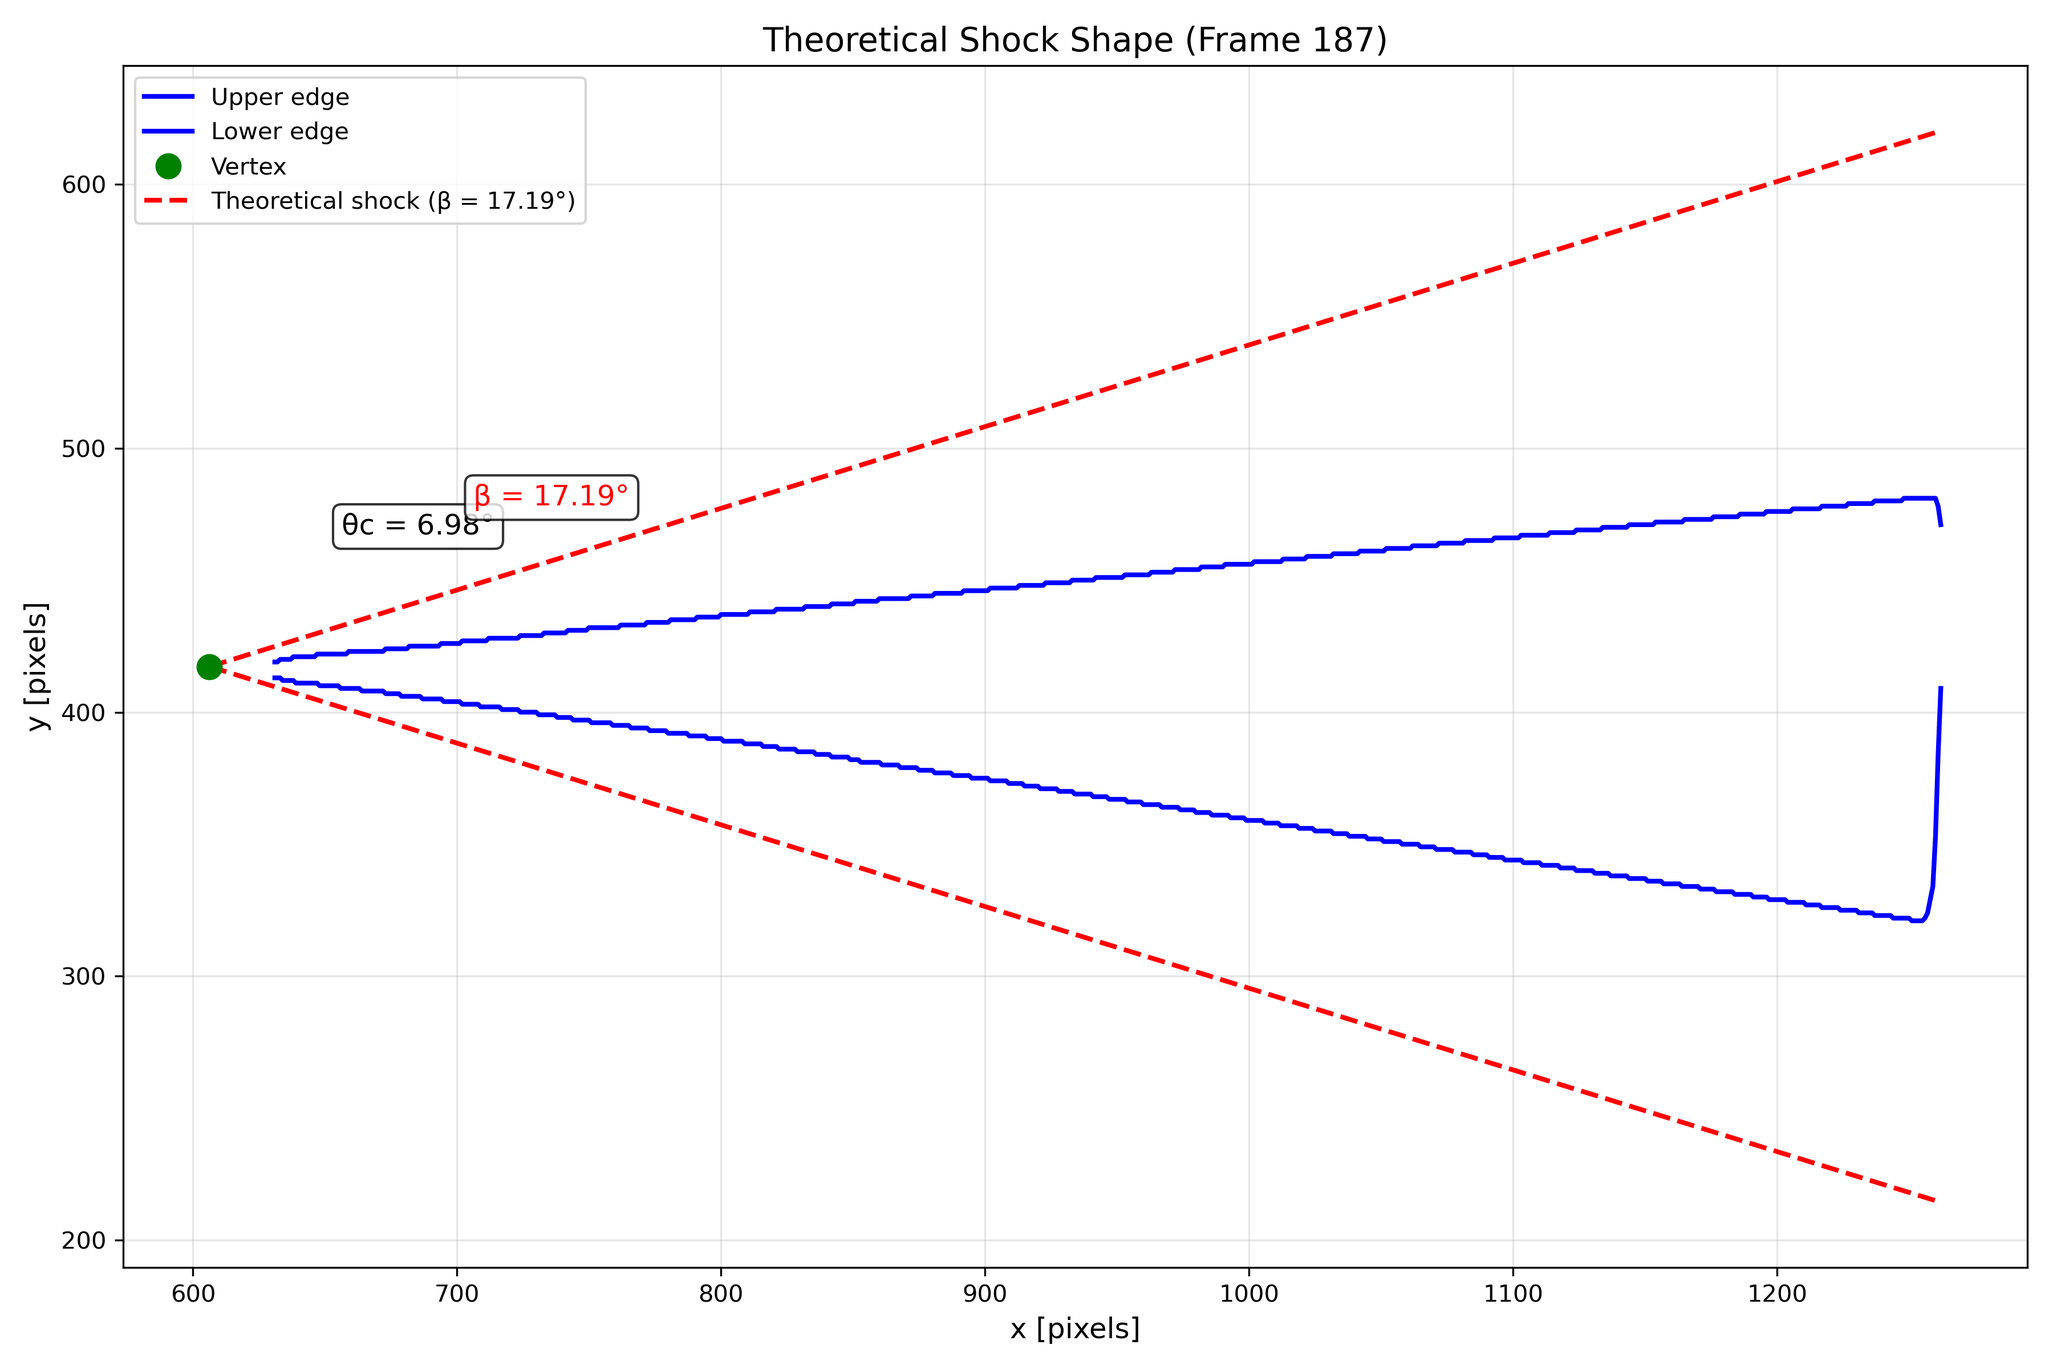
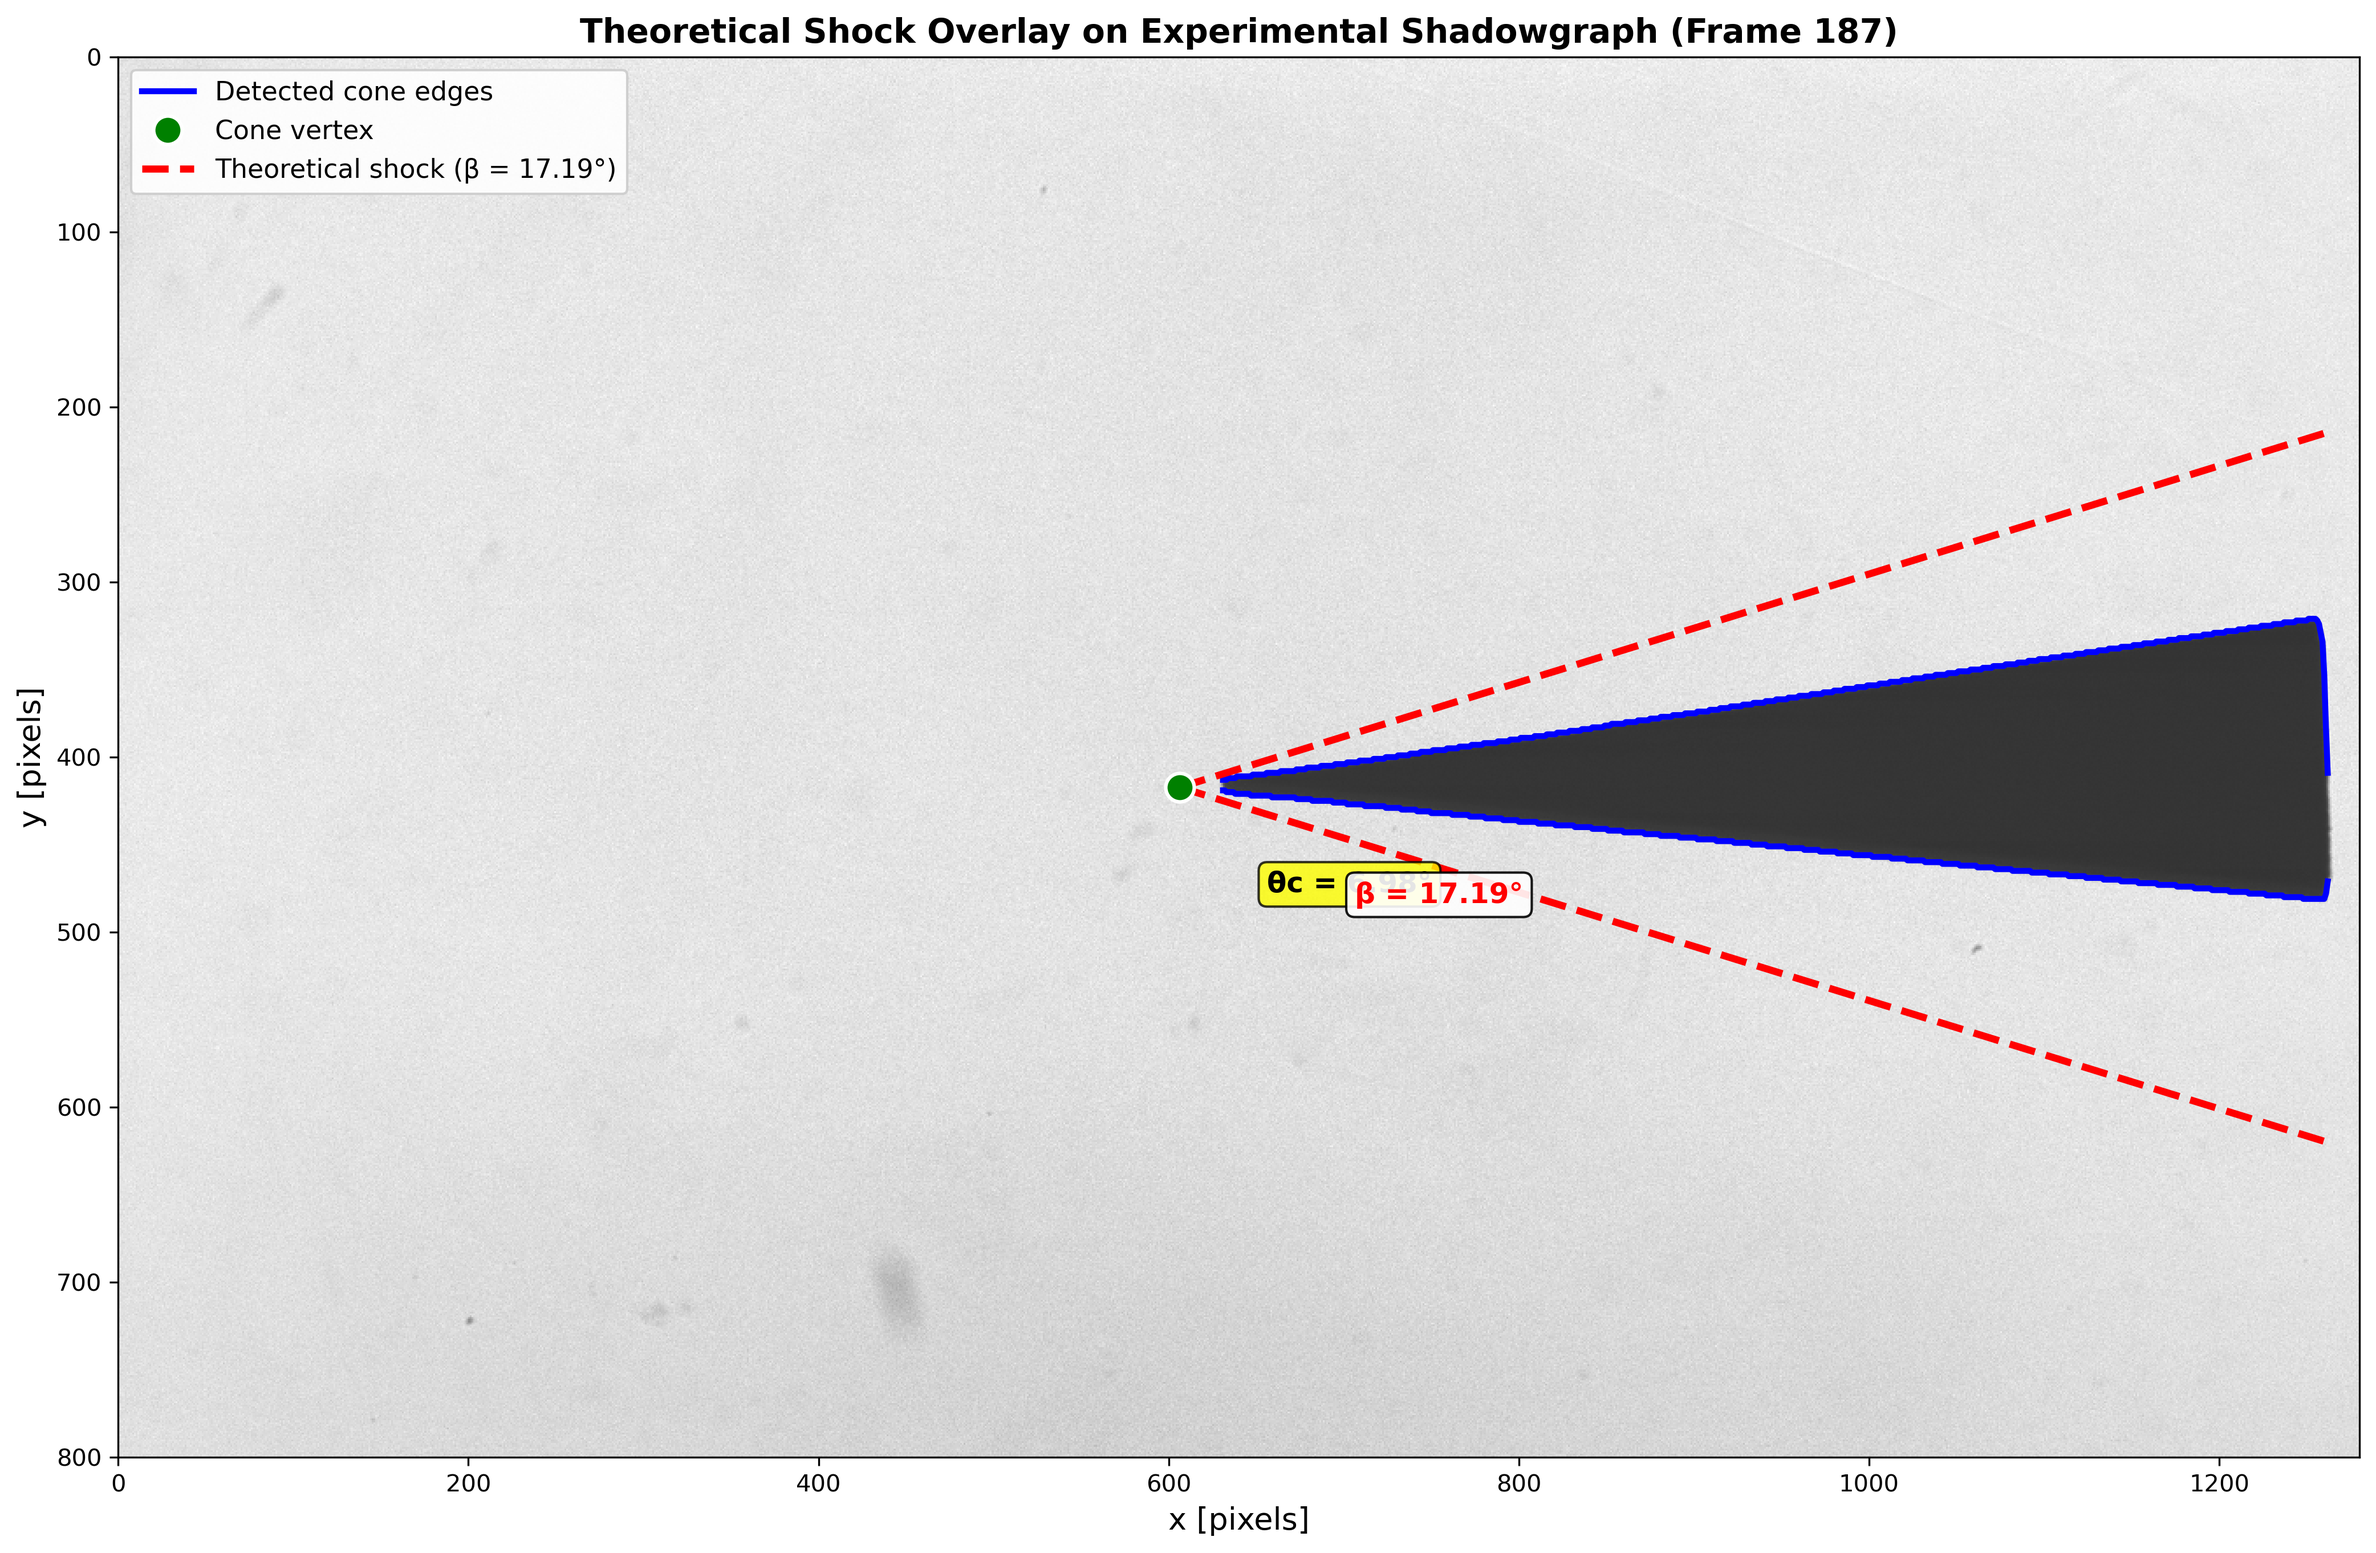
feat(src): overlay predicted shock on experimental image

diff --git a/src/index.py b/src/index.py
@@ -7,6 +7,7 @@ import numpy as np
 import pandas as pd
 import matplotlib.pyplot as plt
 from pathlib import Path
+from PIL import Image
 
 # --- Paths -------------------------------------------------------------------
 
@@ -580,21 +581,45 @@ plt.savefig(OUTPUT_FIGS_DIR / "acceleration_vs_time.png", dpi=300)
 plt.close()
 print("  Saved: acceleration_vs_time.png")
 
-# Figure 4: Theoretical shock shape overlay
+# Figure 4: Theoretical shock shape overlay on experimental image
 # Select a frame near the middle with low angle of attack
 middle_frame = frame_numbers[len(frame_numbers) // 2]
 upper_mid, lower_mid = load_edge_data(middle_frame)
 geom_mid = geom_df[geom_df["frame"] == middle_frame].iloc[0]
 
-fig, ax = plt.subplots(figsize=(12, 8))
+# Load the actual shadowgraph image
+image_path = DATA_DIR / "images" / f"cone_{middle_frame:03d}.tif"
+img = Image.open(image_path)
+img_array = np.array(img)
+
+fig, ax = plt.subplots(figsize=(14, 10))
+
+# Display the shadowgraph image
+ax.imshow(
+    img_array,
+    cmap="gray",
+    alpha=0.8,
+    extent=[0, img_array.shape[1], img_array.shape[0], 0],
+)
 
 # Plot cone edges
-ax.plot(upper_mid["x"], upper_mid["y"], "b-", linewidth=2, label="Upper edge")
-ax.plot(lower_mid["x"], lower_mid["y"], "b-", linewidth=2, label="Lower edge")
+ax.plot(
+    upper_mid["x"], upper_mid["y"], "b-", linewidth=2.5, label="Detected cone edges"
+)
+ax.plot(lower_mid["x"], lower_mid["y"], "b-", linewidth=2.5)
 
 # Plot vertex
 vx, vy = geom_mid["vertex_x"], geom_mid["vertex_y"]
-ax.plot(vx, vy, "go", markersize=10, label="Vertex", zorder=5)
+ax.plot(
+    vx,
+    vy,
+    "go",
+    markersize=12,
+    label="Cone vertex",
+    zorder=5,
+    markeredgecolor="white",
+    markeredgewidth=1.5,
+)
 
 # Plot theoretical shock rays
 x_shock_range = np.linspace(vx, upper_mid["x"].max(), 200)
@@ -609,38 +634,44 @@ ax.plot(
     x_shock_range,
     y_shock_upper,
     "r--",
-    linewidth=2,
+    linewidth=3,
     label=f"Theoretical shock (β = {beta_deg:.2f}°)",
 )
-ax.plot(x_shock_range, y_shock_lower, "r--", linewidth=2)
+ax.plot(x_shock_range, y_shock_lower, "r--", linewidth=3)
 
 # Annotations
 ax.text(
     vx + 50,
-    vy + 50,
+    vy + 60,
     f"θc = {np.degrees(THETA_C):.2f}°",
     fontsize=12,
-    bbox=dict(boxstyle="round", facecolor="white", alpha=0.8),
+    bbox=dict(boxstyle="round", facecolor="yellow", alpha=0.8),
+    fontweight="bold",
 )
 ax.text(
     vx + 100,
-    vy + (x_shock_range[50] - vx) * np.tan(beta_rad) + 10,
+    vy + (x_shock_range[50] - vx) * np.tan(beta_rad) + 15,
     f"β = {beta_deg:.2f}°",
     fontsize=12,
     color="red",
-    bbox=dict(boxstyle="round", facecolor="white", alpha=0.8),
+    bbox=dict(boxstyle="round", facecolor="white", alpha=0.9),
+    fontweight="bold",
 )
 
-ax.set_xlabel("x [pixels]", fontsize=12)
-ax.set_ylabel("y [pixels]", fontsize=12)
-ax.set_title(f"Theoretical Shock Shape (Frame {middle_frame})", fontsize=14)
-ax.legend(fontsize=10)
-ax.axis("equal")
-ax.grid(True, alpha=0.3)
+ax.set_xlabel("x [pixels]", fontsize=13)
+ax.set_ylabel("y [pixels]", fontsize=13)
+ax.set_title(
+    f"Theoretical Shock Overlay on Experimental Shadowgraph (Frame {middle_frame})",
+    fontsize=14,
+    fontweight="bold",
+)
+ax.legend(fontsize=11, loc="upper left", framealpha=0.9)
+ax.set_xlim(0, img_array.shape[1])
+ax.set_ylim(img_array.shape[0], 0)
 plt.tight_layout()
-plt.savefig(OUTPUT_FIGS_DIR / "theoretical-shock.png", dpi=300)
+plt.savefig(OUTPUT_FIGS_DIR / "theoretical-shock.png", dpi=300, bbox_inches="tight")
 plt.close()
-print("  Saved: theoretical-shock.png (updated)")
+print("  Saved: theoretical-shock.png (updated with shadowgraph background)")
 
 # Figure 5: Drag coefficient comparison bar chart
 fig, ax = plt.subplots(figsize=(8, 6))
